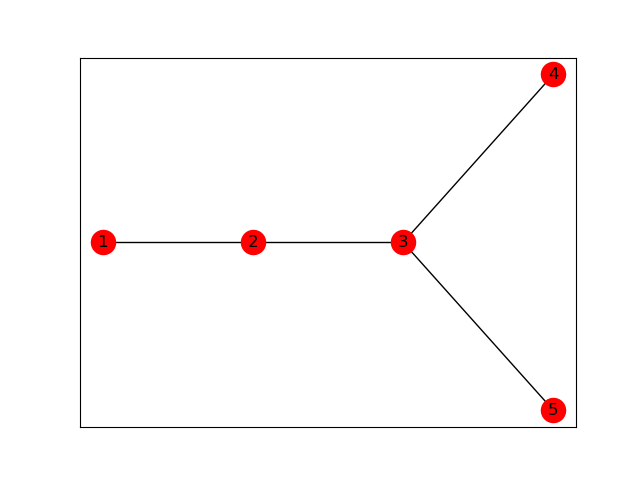
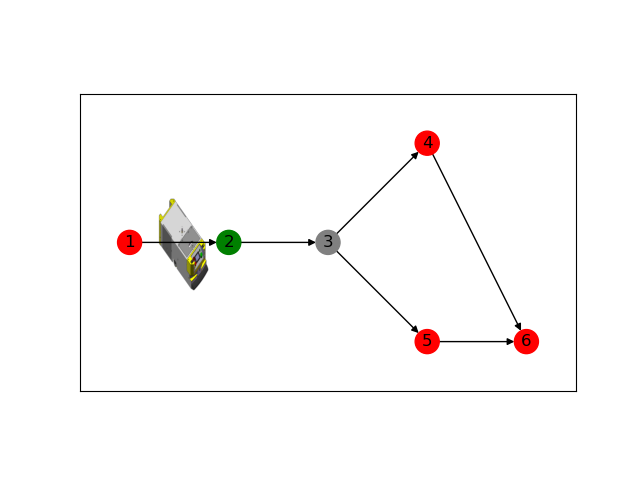
Ejemplo grafos con encontrar el camino más corto
Ya se puede plotear el grafo de un mapa, con colores representando cada cosa y

diff --git a/Socket tests/02 Network manager.py b/Socket tests/02 Network manager.py
@@ -1,0 +1,58 @@
+import socket
+import select
+import parse
+import copy
+
+class networkManager():
+    def __init__(self,port,n_AGVs):
+        self.n_AGVs = n_AGVs
+        self.server_socket = socket.socket(socket.AF_INET, socket.SOCK_STREAM)
+        self.server_socket.setsockopt(socket.SOL_SOCKET, socket.SO_REUSEADDR, 1)
+        self.server_socket.bind(('', port))
+        self.server_socket.listen(self.n_AGVs)
+        self.read_list = [self.server_socket]
+        self.timeout_select=0.001
+        self.agvs_sockets={}
+        self.msgs_recieved=[]
+    def check_new_msgs(self):
+
+        retVal=0;
+        readable, writable, _ = select.select(self.read_list, [], [], self.timeout_select)
+        for s in readable:
+            if s is self.server_socket:
+                client_socket, address = self.server_socket.accept()
+                self.read_list.append(client_socket)
+                print("Connection from", address)
+            else:
+                retVal=1
+                data_recieved = repr(s.recv(1024))
+                data_recieved = data_recieved.split('\n', 1) #Me quedo con el header del agv
+                header = data_recieved[0]
+                data_recieved = data_recieved[1]
+                AGV_number = int(parse.parse("AGV {}\n", header))
+                return_msg = (AGV_number, data_recieved)
+                self.msgs_recieved.append(return_msg)
+                self.agvs_sockets[AGV_number] = s
+        return retVal
+    def get_msgs(self):
+        retVal=copy.deepcopy(self.msgs_recieved)
+        self.msgs_recieved=[]
+        return retVal;
+
+    def send_msg(self,AGV_number,msg):
+        agv_socket = self.agvs_sockets[AGV_number]
+        agv_socket.sendall(msg)
+    def delete_socket(self,AGV_number):
+        agv_socket = self.agvs_sockets[AGV_number]
+        agv_socket.close()
+        self.read_list.remove(agv_socket)
+        del self.agvs_sockets['key']
+
+if __name__ == "__main__":
+    nm=networkManager()
+    while 1:
+        if nm.check_new_msgs():
+            msgs=nm.get_msgs()
+            msg_2_send=input()
+            nm.send_msg(msgs[0], msg_2_send)
+

diff --git a/Graph tests/00 Generate map.py b/Graph tests/00 Generate map.py
@@ -3,23 +3,48 @@ import networkx as nx
 import matplotlib.pyplot as plt
 import matplotlib.colors as mc
 
-G=nx.Graph()
+def gen_color(G):
+    colors = []
+    for n in G:
+        d=nx.get_node_attributes(G,'description')[n]
+        if d == "Station":
+            colors.append(mc.to_rgba('red'))
+        elif d == "Slow down Tag":
+            colors.append(mc.to_rgba('green'))
+        else:
+            colors.append(mc.to_rgba('gray'))
+    return colors
+
+G=nx.DiGraph()
 
 # adding just one node:
-G.add_nodes_from([1,4,5], description="Station")
+G.add_nodes_from([1,4,5,6], description="Station")
 G.add_node(2, description="Slow down Tag")
-G.add_node(3, description="Merge to: 2")
+G.add_node(3, description="Bifurcation", merge_to_node=2)
 
-G.add_edge(1, 2, weight=10 )
-G.add_edge(2, 3, weight=5 )
-G.add_edge(3, 4, weight=5 )
-G.add_edge(3, 5, weight=10 )
+G.add_edge(1, 2, length=10 )
+G.add_edge(2, 3, length=5 )
+G.add_edge(3, 4, length=10 )
+G.add_edge(3, 5, length=10 )
+G.add_edge(4, 6, length=17 )
+G.add_edge(5, 6, length=10 )
 
-pos = {1:(0,0),2:(10,0),3:(20,0),4:(30,10),5:(30,-10)}
+pos = {1:(0,0),2:(10,0),3:(20,0),4:(30,10),5:(30,-10), 6:(40,-10)}
 
-col=mc.to_rgba('red')
-
+#col=mc.to_rgba('red')
 #nx.draw(G, with_labels=True, pos =pos)
-nx.draw_networkx(G, with_labels=True, pos =pos,node_color=col)
+
+#print(nx.shortest_path(G, source=1, target=6,weight="length"))
+
+im = plt.imread("AGV.png")
+
+nx.draw_networkx(G, with_labels=True, pos =pos,node_color=gen_color(G))
+implot = plt.imshow(im, extent=[1,9,-5,5])
+#plt.plot([0,25],[0,15])
+plt.xlim((-5,45))
+plt.ylim((-15,15))
 plt.savefig("Map.png") # save as png
 plt.show() # display
+
+
+

diff --git a/Socket tests/01 Server listen non blocking.py b/Socket tests/01 Server listen non blocking.py
@@ -1,0 +1,34 @@
+import select
+import socket
+
+hostname = socket.gethostname()
+ip_address = socket.gethostbyname(hostname)
+print("My IP Address: " + ip_address)
+
+server_socket = socket.socket(socket.AF_INET, socket.SOCK_STREAM)
+server_socket.setsockopt(socket.SOL_SOCKET, socket.SO_REUSEADDR, 1)
+server_socket.bind(('', 12345))
+req_queue_max=10 #La máxima cantidad de AGVs
+server_socket.listen(req_queue_max)
+print("Listening on port 12345")
+
+def do_other_activities():
+    return 0
+
+read_list = [server_socket]
+while True:
+    readable, writable, errored = select.select(read_list, [], [],0.001)
+    for s in readable:
+        if s is server_socket:
+            client_socket, address = server_socket.accept()
+            read_list.append(client_socket)
+            print("Connection from", address)
+        else:
+            data = s.recv(1024)
+            if data:
+                s.send(data)
+            else:
+                s.close()
+                read_list.remove(s)
+    do_other_activities()
+

diff --git a/Socket tests/00 Intento server.py b/Socket tests/00 Intento server.py
@@ -1,0 +1,35 @@
+# first of all import the socket library
+import socket
+
+
+hostname = socket.gethostname()
+ip_address = socket.gethostbyname(hostname)
+print("My IP Address: " + ip_address) #Esta IP no está bien
+# next create a socket object
+s = socket.socket()
+print("Socket successfully created")
+port = 12345
+
+# Next bind to the port
+# we have not typed any ip in the ip field
+# instead we have inputted an empty string
+# this makes the server listen to requests
+# coming from other computers on the network
+s.bind(('0.0.0.0', port))
+print("socket binded to %s" % (port))
+
+# put the socket into listening mode
+s.listen(60)
+print("socket is listening")
+
+# Establish connection with client.
+c, addr = s.accept()
+
+print ('Got connection from', addr)
+msg=c.recv(1024)
+# send a thank you message to the client.
+c.sendall(b'Thank you for connecting')
+
+# Close the connection with the client
+c.close()
+print ('Client Msg:', msg)

diff --git a/PyQt tests/01 GUI aplicada.py b/PyQt tests/01 GUI aplicada.py
@@ -1,0 +1,19 @@
+import sys
+from PyQt5.QtWidgets import QApplication, QWidget
+
+
+def main():
+
+    app = QApplication(sys.argv)
+
+    w = QWidget()
+    w.resize(1000, 800)
+    w.move(300, 300)
+    w.setWindowTitle('Simple')
+    w.show()
+
+    sys.exit(app.exec_())
+
+
+if __name__ == '__main__':
+    main()

diff --git a/Socket tests/XX Simulador cliente.py b/Socket tests/XX Simulador cliente.py
@@ -1,0 +1,16 @@
+import socket
+
+s = socket.socket();
+
+s.connect(('loopback',12345))
+print('Conecté')
+
+s.sendall(b'AGV 1\nHB\n')
+
+
+data = s.recv(1024)
+print('Recibí: ', repr(data))
+
+s.sendall(b'AGV 1\nACK\n')
+
+s.close()
